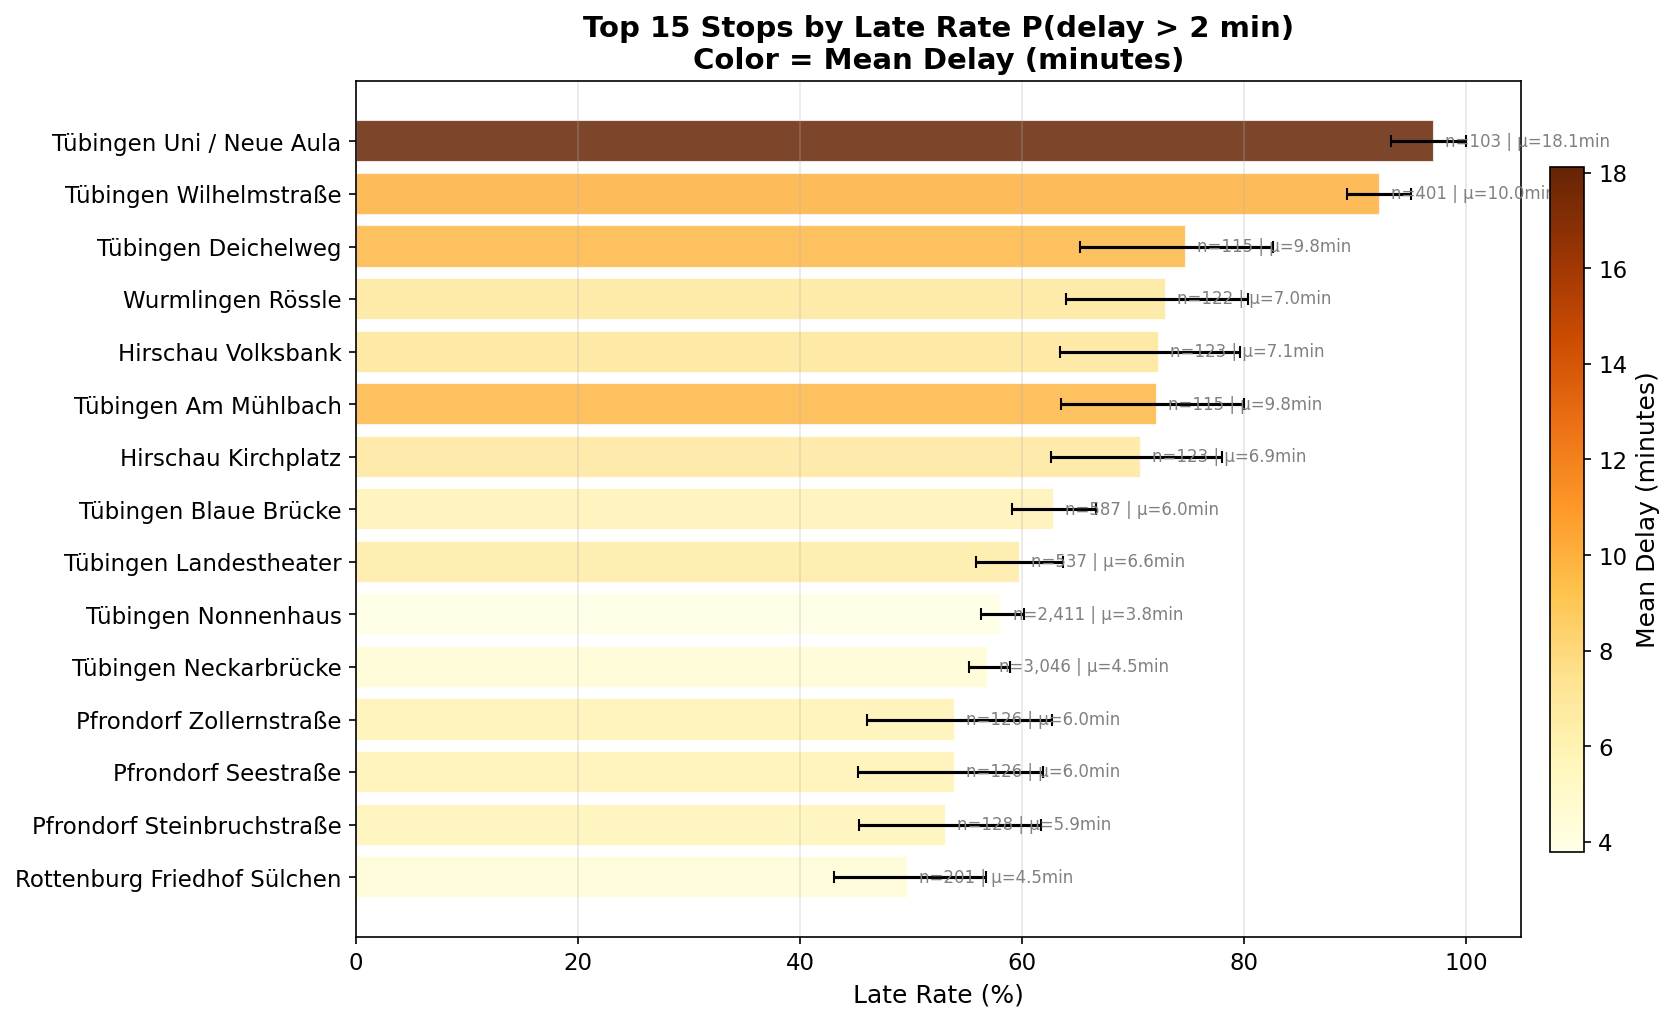
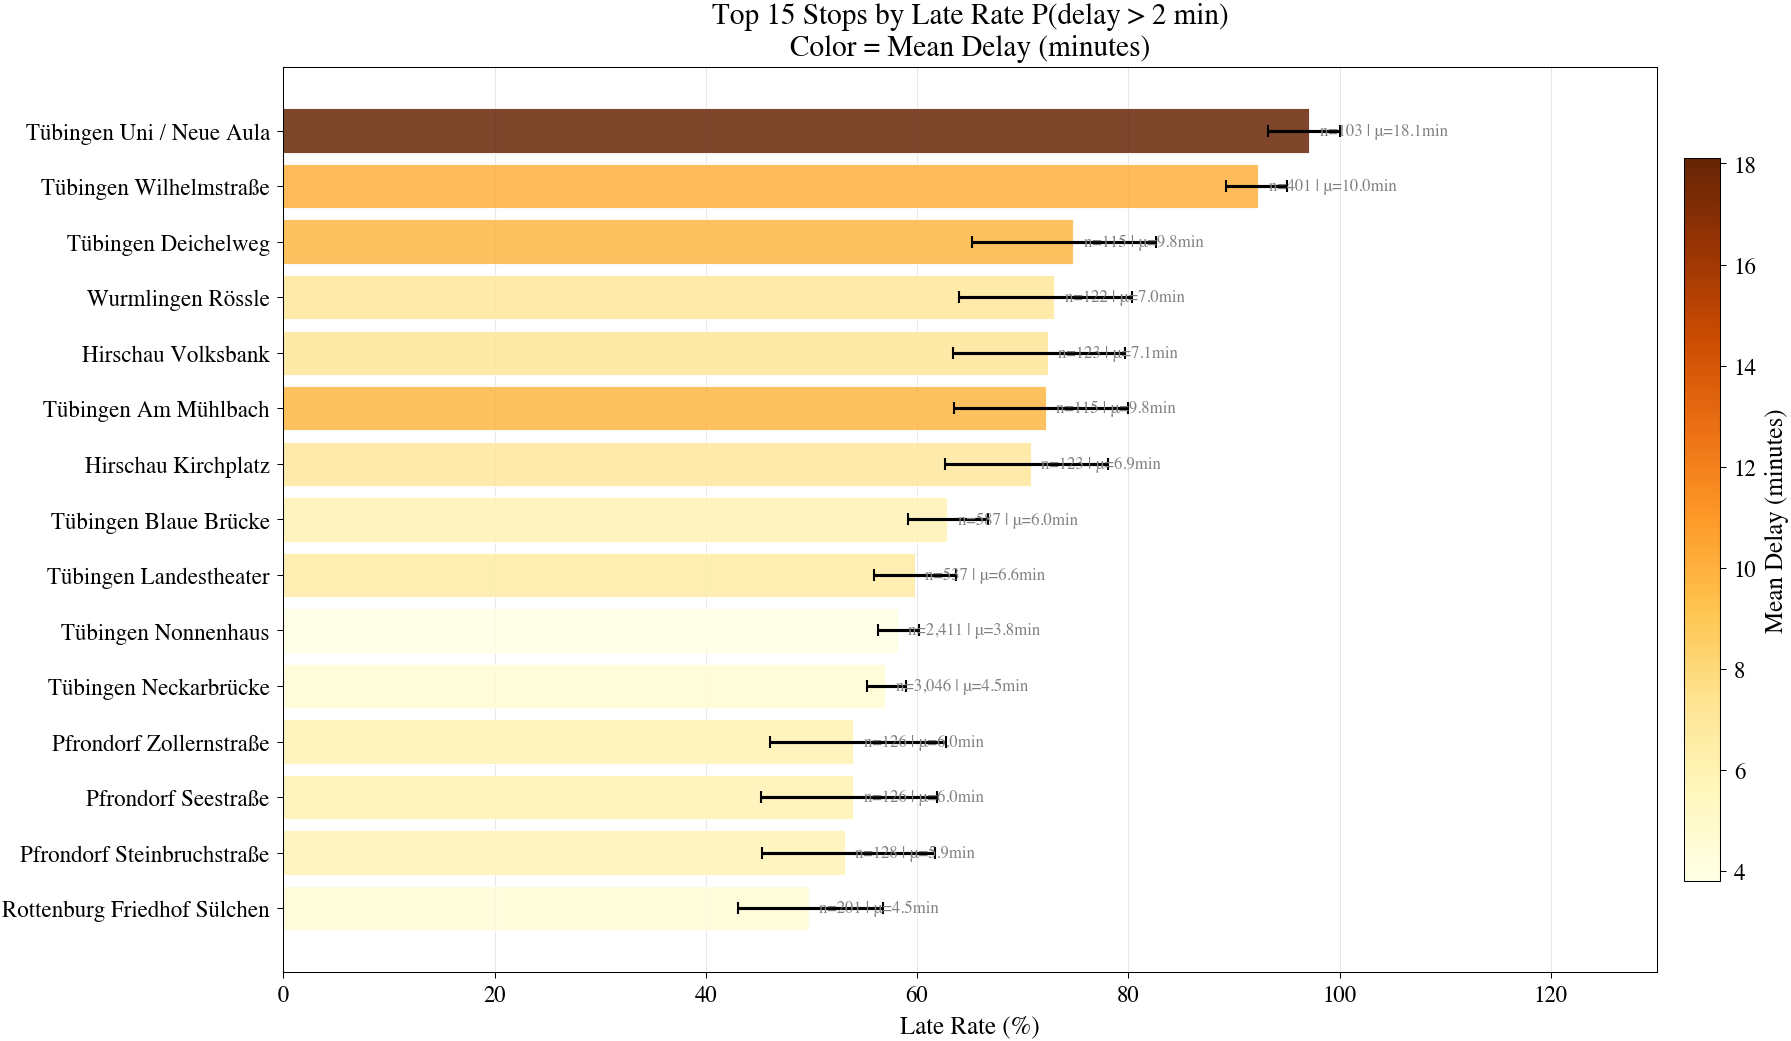
fix: extend x-axis range in top stops late rate plot

Changed region(s): [[0.0, 0.0, 1.0, 1.0]]

diff --git a/docs_generation/fig_top_stops_late_rate.py b/docs_generation/fig_top_stops_late_rate.py
@@ -80,6 +80,9 @@ def main():
     ax.set_title(f'Top 15 Stops by Late Rate P(delay > {LATE_THRESHOLD} min)\nColor = Mean Delay (minutes)', fontweight='bold')
     ax.invert_yaxis()
     ax.grid(axis='x', alpha=0.3)
+    
+    # Extend x-axis to make room for annotations
+    ax.set_xlim(0, 130)
 
     # Add sample size and mean delay annotations
     for i, (_, row) in enumerate(stop_df.iterrows()):
@@ -94,7 +97,6 @@ def main():
     cbar.set_label('Mean Delay (minutes)', fontsize=12)
     cbar.ax.tick_params(labelsize=11)
 
-    plt.tight_layout()
     plt.savefig(OUTPUT_PATH, dpi=150, bbox_inches='tight')
     print(f"Saved: {OUTPUT_PATH}")
 
